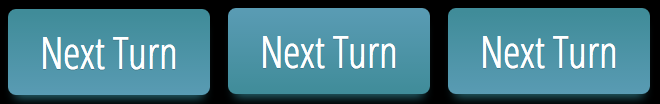
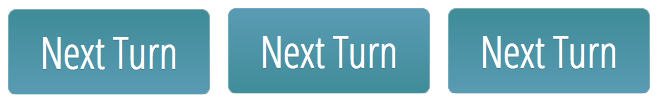
Remove wave line, change next_turn asset (add transparency) and move it to a better place

Changed region(s): [[0.0, 0.0, 1.0, 1.0]]

diff --git a/game/ui_widgets/wave_view.js b/game/ui_widgets/wave_view.js
@@ -7,13 +7,8 @@ var WaveView = Views.createViewType(
     Views.call(this, weather.global.game, 0, 0);
     this.weather = weather;
     this.wave = this.uiGroup.create(0, 0, 'wave');
-    this.waterLine = this.uiGroup.create(0,0,'line');
-    this.waterLine.scale.y =.1;
-    // This is a hack for wave demo
     this.rad = 0;
-
     this.lastY = 600;
-    this.oldWaterLine = 600;
   },
 
   {
@@ -21,16 +16,8 @@ var WaveView = Views.createViewType(
       this.wave.x = (this.wave.x-1)%100;
       var waterLevel = this.weather.getCurrentWaterLevel();
 
-      var wantWaterLine = this.weather.global.levelToY(waterLevel); 
-      var newWaterLine = this.oldWaterLine + Math.max(Math.min(wantWaterLine - this.oldWaterLine, 3), -3);
-      this.waterLine.y = newWaterLine;
-      this.oldWaterLine = newWaterLine;
-
       this.rad += 0.03;
       waterLevel += (Math.sin(this.rad))*1;
-
-      // 0 level: y = game.height - 200
-      // 100 level: y = 100
 
       // Clamp the maximum motion of the wave
       var wantY = this.weather.global.levelToY(waterLevel) - 126;

diff --git a/game/ui_widgets/global_view.js b/game/ui_widgets/global_view.js
@@ -25,7 +25,7 @@ var GlobalView = Views.createViewType(
     
     
     // Create TurnView. this.global contains all necessary information
-    this.turnView = new TurnView(this.global, this.global.game.width/2, 500);
+    this.turnView = new TurnView(this.global, 130, 70);
 
     this.waveView = new WaveView(this.global.weather);
 
